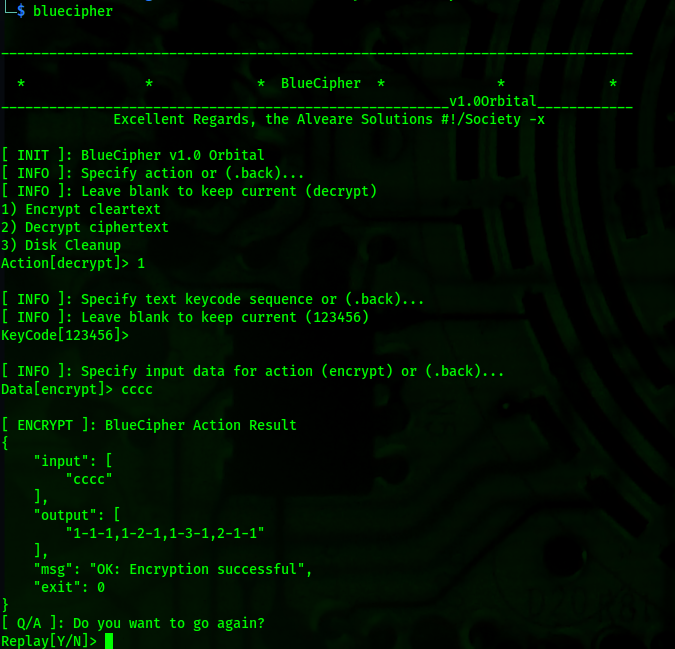
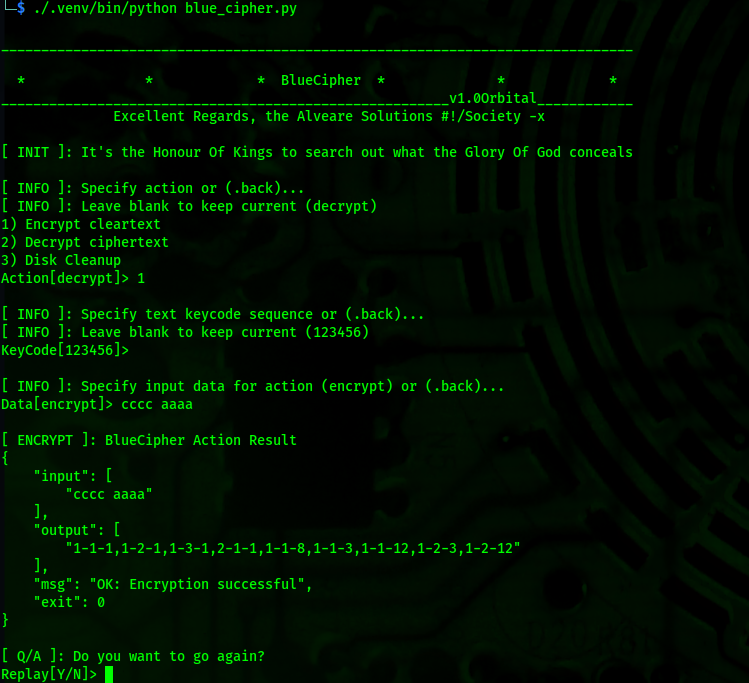
Code cleanup session and minor bug fixes.

diff --git a/blue_cipher.py b/blue_cipher.py
@@ -8,7 +8,7 @@ import optparse
 import os
 import glob
 import json
-import pysnooper
+#import pysnooper
 
 SCRIPT_NAME = 'BlueCipher'
 VERSION = '1.0'
@@ -96,8 +96,8 @@ def fetch_replay_confirmation_from_user(prompt='Replay'):
         if not answer:
             continue
         if answer.lower() not in ('y', 'n', 'yes', 'no', 'yeah', 'nah'):
-            stdout_msg(
-                'Invalid answer (%s)' % answer, err=True,
+            print(); stdout_msg(
+                'Invalid answer (%s)\n' % answer, err=True,
                 silence=CONFIG.get('silent')
             )
             continue
@@ -379,7 +379,7 @@ def cache_chaptertext_file_content(*text_file_names, **context):
 
 # ACTIONS
 
-@pysnooper.snoop()
+#@pysnooper.snoop()
 def encrypt_cleartext(*data, **context) -> list:
     '''
     [ INPUT  ]: data = ['first clear text', 'second clear text', ...]
@@ -766,7 +766,7 @@ def init():
         and not CONFIG['data_source'] else 'file'
     display_header(**CONFIG)
     stdout_msg(
-        '[ INIT ]: %s v%s %s' % (SCRIPT_NAME, VERSION, VERSION_NAME),
+        "[ INIT ]: It's the Honour Of Kings to search out what the Glory Of God conceals\n",
         silence=CONFIG.get('silent')
     )
     try:
@@ -781,10 +781,7 @@ def init():
                 silence=CONFIG.get('silent'), done=True
             )
             exit(action_result['exit'])
-
-#       load = load_text_files(**CONFIG)
         lock_n_load = setup(**CONFIG)
-
         check = check_preconditions(**CONFIG)
         if not check:
             details = action_result.get('msg', '')
